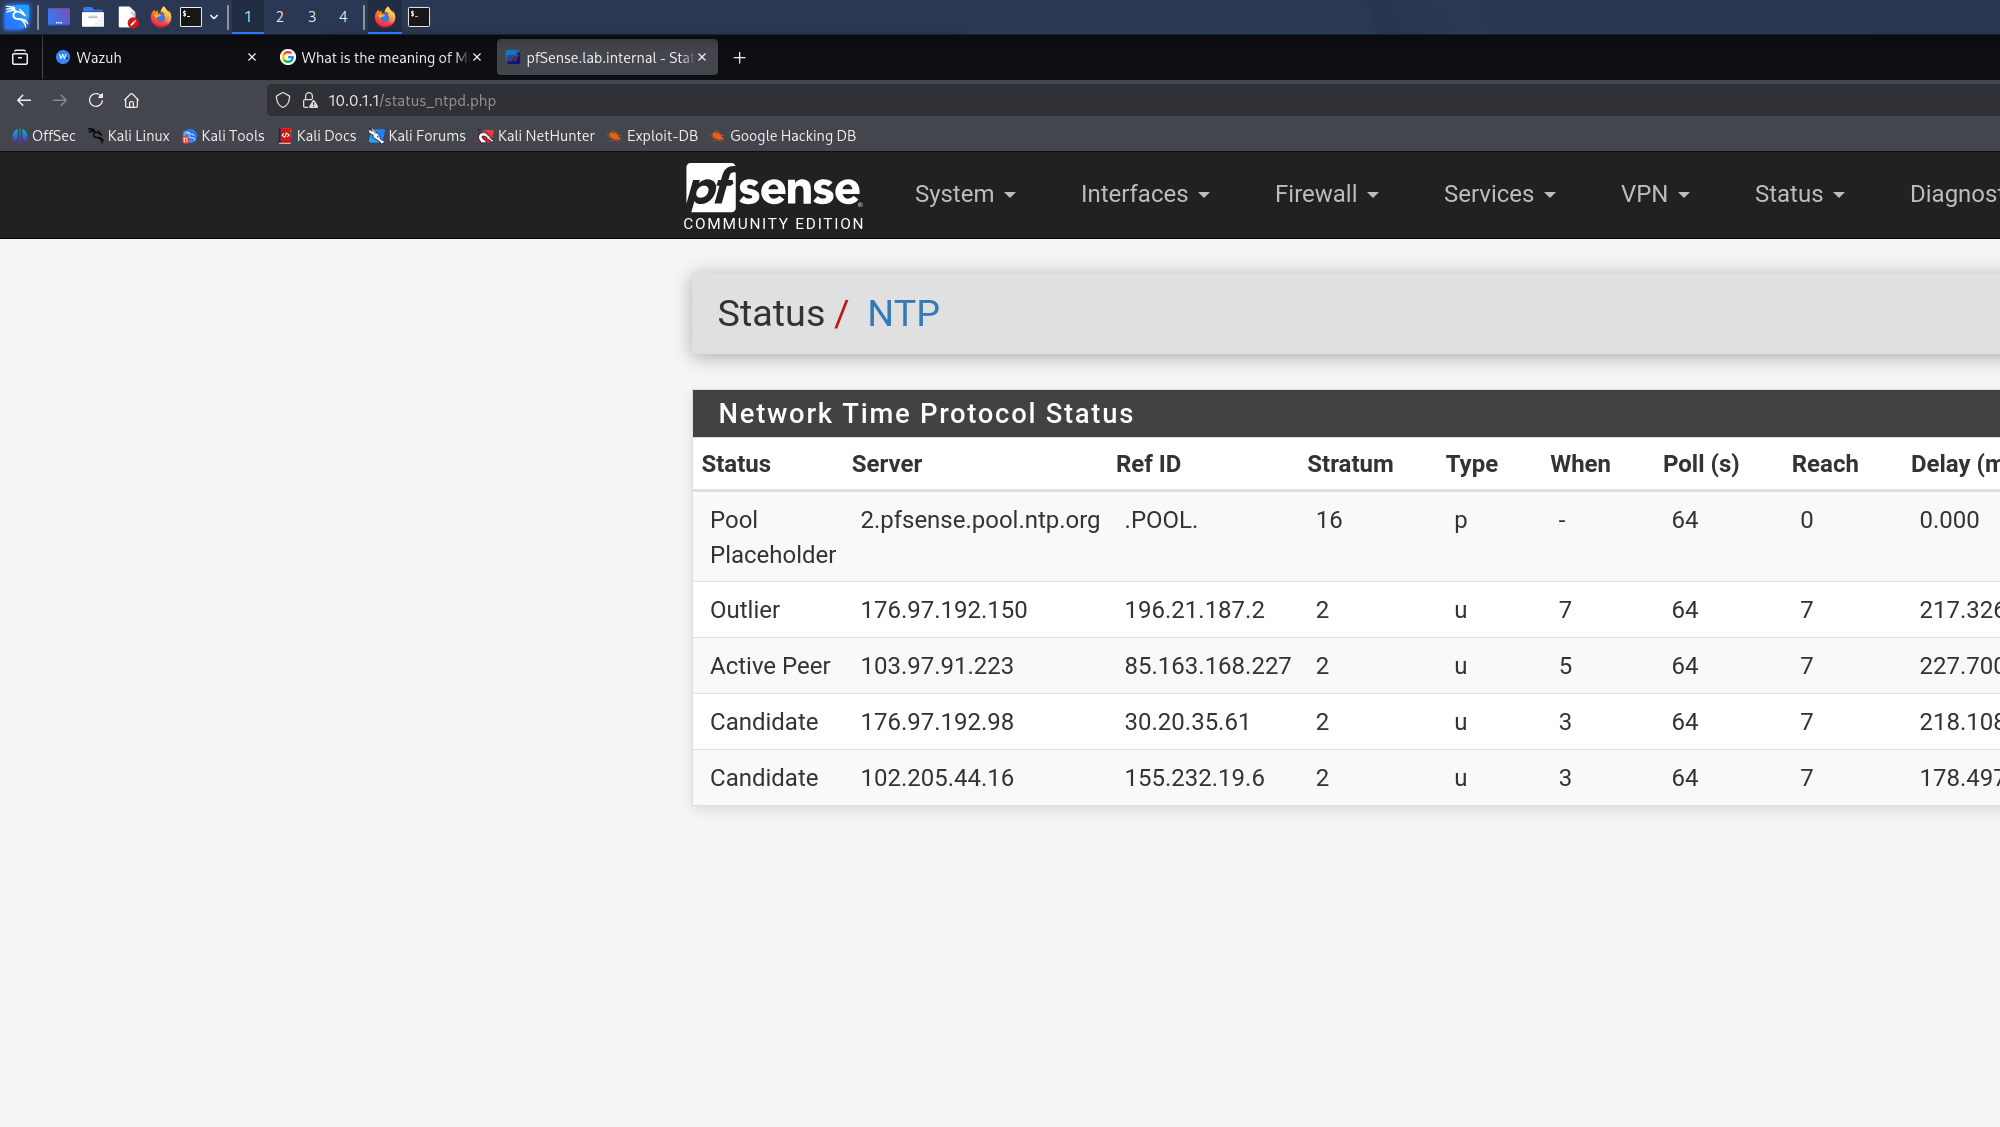
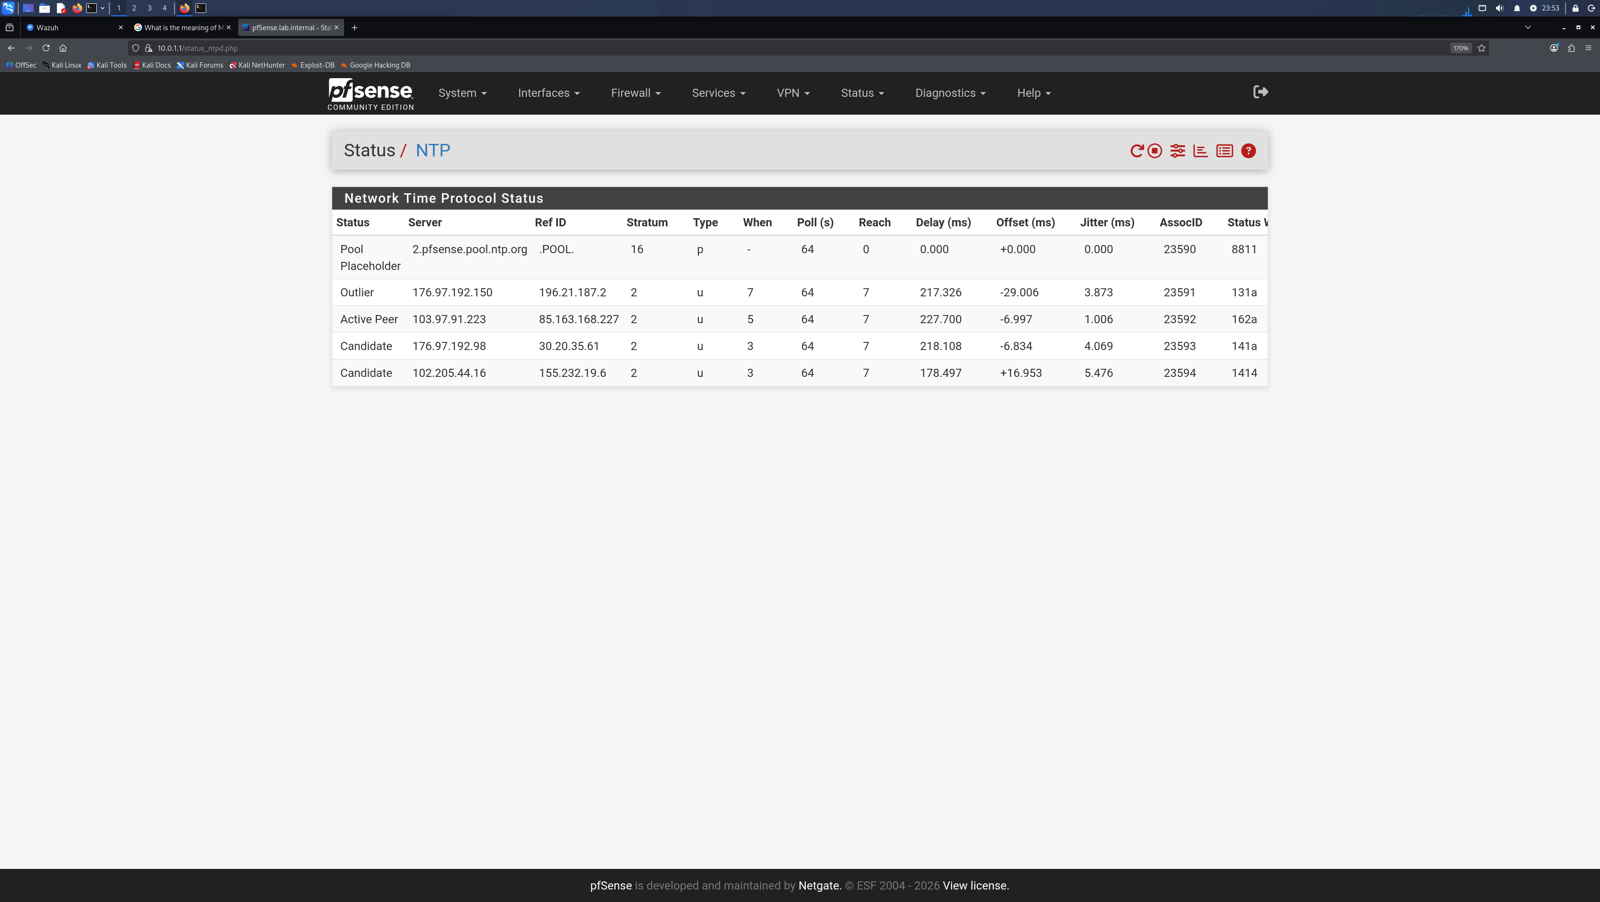
Session 3: DMZ chrony sync, duplicate-alert fix, Case 001 correction
Claude-Session: https://claude.ai/code/session_0123y7FGHCpfLddutPeZT67s

diff --git a/case-studies/001-invisible-ssh-alerts.md b/case-studies/001-invisible-ssh-alerts.md
@@ -29,7 +29,7 @@ auth.log → agent collects → agent sends (TCP 1514) → manager rules → ale
 | # | Hypothesis | Test | Result |
 | --- | --- | --- | --- |
 | 1 | Ubuntu 26.04 logs as `sshd-session`, so Wazuh's SSH decoder doesn't match | Pasted the raw log line into Wazuh's **Ruleset Test** | **Disproved.** The `sshd` decoder extracted `srcip` and `srcuser`, and rule 5710 fired. No custom rule needed. |
-| 2 | The agent isn't reading the log file | `grep "auth.log" /var/ossec/logs/ossec.log` | **Confirmed.** The agent monitored journald only. Added a `<localfile>` entry for `/var/log/auth.log`. |
+| 2 | The agent isn't reading the log file | `grep "auth.log" /var/ossec/logs/ossec.log` | *At the time:* believed confirmed, since the agent monitored journald only, so I added auth.log. **Later disproved (22 Oct):** journald was already delivering SSH events. See the correction below. |
 | 3 | The dashboard can't reach the manager ("Check API connection") | `systemctl is-active wazuh-manager` | **Confirmed.** The manager had crashed at boot. Restarted it and verified the API was listening on port 55000. |
 | 4 | The agent isn't connected | Read `wazuh-agentd.state` | Ruled out: `status='connected'`, recent `last_ack`. |
 | 5 | The manager isn't generating alerts | `grep fakeuser /var/ossec/logs/alerts/alerts.log` and `alerts.json` | Ruled out: alerts present (65 matching lines in alerts.json). |
@@ -39,7 +39,7 @@ auth.log → agent collects → agent sends (TCP 1514) → manager rules → ale
 
 ## Root causes
 
-1. **Collection gap:** the agent only read journald, not `/var/log/auth.log`.
+1. ~~Collection gap~~ **Withdrawn.** Journald was already collecting SSH events (see the correction below).
 2. **Service failure:** wazuh-manager failed at boot.
 3. **Clock skew (main cause):** the Wazuh VM clock was exactly 1 hour ahead. Windows keeps the hardware clock in local time (Lagos, UTC+1), and the Linux VM read it as UTC.
 4. **Why it never self-corrected:** NTP (UDP 123) is blocked by my own MGMT firewall rules, so the VM couldn't sync time.
@@ -71,8 +71,19 @@ sudo systemctl restart wazuh-manager
 ## Follow-up actions
 
 - [x] Make pfSense the lab's NTP server; Wazuh now syncs from it ([Phase 4.1](../docs/phase-4-ntp-time-sync.md)). DMZ server still to do.
-- [ ] Remove duplicate alerts (journald and auth.log both report the same event)
+- [x] Remove duplicate alerts: the auth.log source was removed, so each SSH attempt now gives one alert from journald
 - [ ] Make wazuh-manager wait for the indexer at boot
+
+## Correction (22 October 2026)
+
+Re-reading the evidence overturned root cause 1. On 20 October, `alerts.log` already contained SSH alerts in the journald format (`Oct 20 02:28:48 ...`) as well as the auth.log format (`2026-10-20T02:28:48.658051+00:00 ...`). So **journald was collecting SSH events all along**, and adding auth.log only created a **duplicate alert for every attempt**.
+
+**Proof:** one SSH attempt (`sshd-session[4027]`, source port 36664) appeared twice, with `location: journald` and `location: /var/log/auth.log`. After removing the auth.log `<localfile>` (with a backup of `ossec.conf` first), a new attempt on source port 46654 produced exactly **1 hit**, from journald.
+
+**Lessons:**
+- Correct a report when new evidence appears, rather than defending the first conclusion.
+- Deduplicate on a fingerprint that identifies one event: the process ID plus the source port.
+- Duplicates matter. A rule counting 8 failures in 2 minutes would have fired after only 4 real attempts.
 
 ## Evidence
 

diff --git a/docs/phase-4-ntp-time-sync.md b/docs/phase-4-ntp-time-sync.md
@@ -41,10 +41,22 @@ timedatectl timesync-status
 - **Section names are case-sensitive.** `[TIME]` was silently ignored, so the service kept using its default server. `[Time]` worked. The evidence was `Server: ntp.ubuntu.com` and `Packet count: 0`.
 - **Heredocs need a new line after each line of text.** Typed on one line, the shell waits for `EOF` forever.
 
+## The Ubuntu DMZ server: chrony
+
+Ubuntu 26.04 uses **chrony**, not systemd-timesyncd: `systemctl is-active chrony systemd-timesyncd` printed `active` then `inactive`. Never assume; check.
+
+1. DMZ rule at the top of the DMZ tab: Pass · UDP · DMZ subnets → DMZ address · port 123.
+2. Added pfSense as a source: `echo "server 10.0.2.1 iburst prefer" | sudo tee /etc/chrony/sources.d/pfsense.sources`, then `sudo chronyc reload sources`.
+3. **Problem:** pfSense (`_gateway`) was reachable (Reach 177) but never selected (`~` in `chronyc sources`). `sudo chronyc selectdata` showed Auth **N** with state **W** (waiting), while Ubuntu's default sources were **NTS** (authenticated) servers marked `prefer`. Those need TCP 4460 out, which the DMZ blocks.
+4. **Fix:** the design says lab servers sync only from pfSense, so the Ubuntu NTS pool was disabled reversibly: `sudo mv .../ubuntu-ntp-pools.sources .../ubuntu-ntp-pools.sources.disabled`, then `chronyc reload sources` and `sudo chronyc makestep`.
+5. **Result:** `^* _gateway`, Reach 377, Reference ID `0A000201` (10.0.2.1 in hex), stratum 4, leap status Normal, and an offset of 0.89 s corrected.
+
+**Trade-off:** NTS (Network Time Security) authenticates time so it can't be spoofed. Inside this isolated lab, plain NTP from pfSense is acceptable. In production, run NTS internally or allow TCP 4460 out.
+
 ## Next
 
 - [ ] Reboot test: Wazuh should come back synced with no manual fixes
-- [ ] Same change for the Ubuntu DMZ server (check whether it uses chrony or timesyncd), plus a DMZ rule for UDP 123 to the DMZ address
+- [x] Ubuntu DMZ server synced (see above)
 - [ ] Tighten the MGMT "to this firewall" rule to port 53
 
 Evidence: [screenshots/phase-4](../screenshots/phase-4/)

diff --git a/progress-log.md b/progress-log.md
@@ -4,6 +4,7 @@ Newest first.
 
 | Date | Session | What I did | Key lesson |
 | --- | --- | --- | --- |
+| 2026-10-22 | Session 3: DMZ time + alert hygiene | Ubuntu DMZ synced from pfSense via chrony (disabled the unreachable NTS pool); removed the duplicate auth.log source, so 1 attempt = 1 alert; corrected Case 001 | Check which service is running; deduplicate on PID + port; correct reports when evidence changes |
 | 2026-10-22 | Session 2: NTP | pfSense as the lab time server; MGMT NTP rule; Wazuh synced via systemd-timesyncd (corrected −59 min 59.78 s) | Config section names are case-sensitive; a fix must survive a reboot |
 | 2026-10-21 | Notes and portfolio | Wrote up networking fundamentals; created this repository | Documentation is part of the job |
 | 2026-10-20 | Session 1: TCP/IP + first detection | Fixed agent collection, manager crash and SIEM clock skew; rule 5710 alerts visible | Trace the pipeline hop by hop; check the time on every machine |
